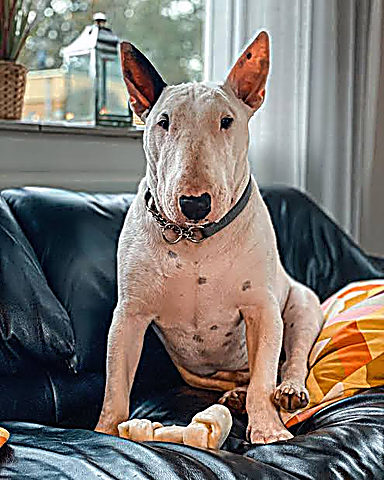
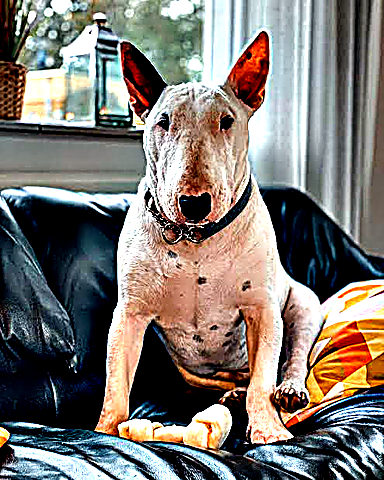
refactor(sharpen)!: fold clarity into sharpen
Local contrast is an unsharp mask with a wide radius: sharpen gains the preset clarity
(radius 30, amount 1) and edge 'constant' with constant_value, as clarity had. Every caller
moves to sharpen; the clarity slice and CLAUDE.md's worked example are updated.

Measured max abs diff vs clarity before the change: 0.0 over 37 renders (11 parameter sets,
3 sharpen sets, 23 caller recipes at their own size).

diff --git a/tests/effects/sharpen/test_sharpen.py b/tests/effects/sharpen/test_sharpen.py
@@ -2,10 +2,15 @@
 
 import numpy as np
 import pytest
+from scipy import ndimage
 
 from bullterrier_image.core import registry
+from bullterrier_image.core.steps import Step
 
 NAME = "sharpen"
+# A blur reaching 32 px or more is an FFT convolution within 1e-5 of scipy's filter (the promise of `gaussian_blur`);
+# the result is 2 x picture - blur, so the blur's error counts once; 2e-5 adds float32 headroom to that promise.
+WIDE_BLUR_VS_SCIPY = 2e-5
 
 
 def kernel_1d(sigma: float, truncate: float = 4.0) -> np.ndarray:
@@ -139,3 +144,29 @@ def test_a_strong_sharpen_overshoots_and_is_cut_off_at_black_and_white(right: fl
     out = registry.apply(NAME, side, amount=5.0, radius=2.0, threshold=0.0)
     assert out.min() == 0.0
     assert out.max() == 1.0
+
+
+@pytest.mark.parametrize("beyond", [0.0, 0.2, 0.5], ids=["black beyond", "dark grey beyond", "same grey beyond"])
+def test_a_constant_edge_blurs_in_the_given_brightness_beyond_the_picture(beyond: float) -> None:
+    """Mid-way down the left edge of a tall grey picture only the row direction sees past the edge: the blur there is
+    grey - (grey - beyond) x (the Gaussian weights at offsets left of the pixel), worked out from the weights."""
+    grey = np.full((61, 21, 3), 0.5, np.float32)
+    out = registry.apply(NAME, grey, radius=1.5, amount=1.0, threshold=0.0, edge="constant", constant_value=beyond)
+    blurred = 0.5 - (0.5 - beyond) * SIGMA_1_5[:CENTRE].sum()
+    assert out[30, 0, 0] == pytest.approx(0.5 + (0.5 - blurred), abs=2e-6)
+    np.testing.assert_allclose(out[10:51, 10], 0.5, atol=1e-6)  # the kernel reaches no edge from the middle
+
+
+def test_the_clarity_preset_is_local_contrast_against_a_wide_blur() -> None:
+    """Checked against scipy's Gaussian filter: picture + (picture - its 30 px blur), kept within 0..1."""
+    picture = np.random.default_rng(5).random((70, 90, 3), dtype=np.float32)
+    blurred = ndimage.gaussian_filter(picture, (30, 30, 0), mode="reflect")
+    expected = np.clip(2 * picture - blurred, 0, 1)
+    out = registry.apply(NAME, picture, **Step(NAME, preset="clarity").params)
+    np.testing.assert_allclose(out, expected, atol=WIDE_BLUR_VS_SCIPY)
+
+
+def test_a_parameter_given_beside_the_clarity_preset_wins() -> None:
+    picture = np.random.default_rng(6).random((40, 50, 3), dtype=np.float32)
+    off = Step(NAME, {"amount": 0.0}, preset="clarity").params
+    np.testing.assert_array_equal(registry.apply(NAME, picture, **off), picture)

diff --git a/src/bullterrier_image/effects/sharpen/effect.py b/src/bullterrier_image/effects/sharpen/effect.py
@@ -46,10 +46,19 @@ class SharpenParams(EffectParams):
         "exact and slower.",
         advanced=True,
     )
-    edge: Literal["reflect", "nearest", "mirror", "wrap"] = param(
+    edge: Literal["reflect", "constant", "nearest", "mirror", "wrap"] = param(
         "reflect",
         doc="What the blur sees beyond the picture's edge: 'reflect' (mirrored, edge pixel repeated), 'mirror' "
-        "(mirrored about the edge pixel), 'nearest' (the edge pixel repeated), 'wrap' (the opposite edge).",
+        "(mirrored about the edge pixel), 'nearest' (the edge pixel repeated), 'wrap' (the opposite edge), "
+        "'constant' (constant_value, so the border stands out from it).",
+        advanced=True,
+    )
+    constant_value: float = param(
+        0.0,
+        unit="fraction",
+        min=0,
+        max=1,
+        doc="The brightness (0..1) assumed beyond the edge when edge is 'constant'; ignored otherwise.",
         advanced=True,
     )
 
@@ -59,9 +68,14 @@ def sharpen(rgb: np.ndarray, params: SharpenParams) -> np.ndarray:
     """Sharpen with an unsharp mask: add `amount` times the detail that a `radius` px Gaussian blur removes.
 
     Detail smaller than `threshold` is left as it is; each colour channel is sharpened on its own, and the result is
-    kept within 0..1.
+    kept within 0..1. A small `radius` brings out fine texture; a large one (preset `clarity`: 30 px) is local
+    contrast, which exaggerates how each area differs from its surroundings so features stand out even when the
+    whole face sits in a narrow band of brightness. Put that before effects that turn tone into marks (ascii,
+    halftone), which are blind to small tonal differences.
     """
-    blurred = gaussian_blur(rgb, params.radius, truncate=params.truncate, edge=params.edge)
+    blurred = gaussian_blur(
+        rgb, params.radius, truncate=params.truncate, edge=params.edge, constant_value=params.constant_value
+    )
     detail = rgb - blurred
     detail *= np.abs(detail) >= params.threshold  # smaller differences count for nothing
     return np.clip(rgb + params.amount * detail, 0.0, 1.0).astype(np.float32)

diff --git a/tests/core/test_runner.py b/tests/core/test_runner.py
@@ -1370,7 +1370,7 @@ def test_a_size_that_is_not_a_whole_number_of_pixels_is_refused_naming_it(photo,
     [
         pytest.param(Step("gaussian_blur", {"radius": 6.0}), id="a blur"),
         pytest.param(Step("bloom", {"radius": 24.0}), id="a bloom"),
-        pytest.param(Step("clarity", {"radius": 30.0}), id="a local contrast"),
+        pytest.param(Step("sharpen", {"radius": 30.0}), id="a local contrast"),
         pytest.param(Step("drop_shadow", {"dx": 12.0, "dy": 18.0, "blur": 24.0}), id="a shadow offset and blurred"),
         pytest.param(Step("pixel_grid", {"cell": 4}), id="a grid of whole pixels"),
     ],

diff --git a/tests/effects/test_no_hidden_tunables.py b/tests/effects/test_no_hidden_tunables.py
@@ -263,7 +263,7 @@ def _findings(path: Path) -> list[str]:
 
 def test_the_scan_covers_the_effect_packages_and_the_ops_modules():
     names = {_module_name(path) for path in SCANNED}
-    assert {"effects/grade/effect.py", "effects/clarity/effect.py", "ops/color.py", "ops/cells.py"} <= names
+    assert {"effects/grade/effect.py", "effects/sharpen/effect.py", "ops/color.py", "ops/cells.py"} <= names
 
 
 @pytest.mark.parametrize("path", SCANNED, ids=[_module_name(path) for path in SCANNED])

diff --git a/examples/python_api.py b/examples/python_api.py
@@ -20,7 +20,7 @@ TOXIC_NEON = Recipe(
     "toxic-neon",
     size=1024,
     steps=[
-        fx.clarity(radius=40, amount=0.6),
+        fx.sharpen(radius=40, amount=0.6),
         fx.gradient_map(stops=["#021a0b", "#00ff88", "#d8ffe8"]),
         fx.fill("#000000", mask="background"),  # only the background; the subject is found automatically
         fx.glitch(split=8, bands=6, seed=3),

diff --git a/tests/test_layering.py b/tests/test_layering.py
@@ -89,7 +89,7 @@ FORBIDDEN = {
     ),
     "effect folder to effect folder": (
         "effects/grade/effect.py",
-        "import bullterrier_image.effects.clarity.effect",
+        "import bullterrier_image.effects.sharpen.effect",
         "bullterrier_image.effects.grade.effect",
         EFFECTS_APART,
     ),

diff --git a/docs/effects-roadmap.md b/docs/effects-roadmap.md
@@ -50,8 +50,7 @@ it becomes a new effect only when it is a new idea. Planned merges of today's ef
 
 | Effect | What it does | Example |
 | --- | --- | --- |
-| `clarity` ✓ | Local contrast. | `fx.clarity(radius=40)` |
-| `sharpen` ✓ | Unsharp mask. | `fx.sharpen(radius=2, amount=0.8)` |
+| `sharpen` ✓ | Unsharp mask; preset `clarity` is local contrast. | `fx.sharpen(radius=2, amount=0.8)` |
 | `highpass` ✓ | Keep only fine detail (for blending). | `fx.highpass(radius=8)` |
 | `denoise` (deferred) | Median, bilateral or non-local-means (the default method fits the render budget; a slower one may be chosen). | `fx.denoise(method="bilateral", amount=0.4)` |
 | `lens_blur` aperture (planned) | `blades` on `lens_blur`: hexagonal or cat's-eye bokeh; 0 = a disc. | `fx.lens_blur(radius=12, highlights=4, blades=6)` |
@@ -211,7 +210,7 @@ of the picture, so a look does not depend on the resolution. `Framing.documentat
 Any number an effect marks `(drivable)` can vary across the picture by a field (`docs/design-decisions.md`, "A field
 varies a parameter"): `radius = { by = "far", start = 0, end = 12 }` on a `gaussian_blur` step. Drivable today: the
 radius of `gaussian_blur`, `bloom`; `motion_blur`'s `length`; the amounts of `bloom`,
-`grain`, `clarity`, `sharpen`, `chromatic_aberration`, `displace`, `vignette`;
+`grain`, `sharpen`, `chromatic_aberration`, `displace`, `vignette`;
 `grade`'s `exposure`, `contrast`, `saturation`, `vibrance`; `levels`' `output_black`; `white_balance`'s `temperature` and `tint`;
 `hue_shift`'s `hue`; `fog`'s `density`. More follow when a look needs them; the rule is that the result changes smoothly with the number.
 
@@ -225,7 +224,7 @@ treats the ground under the subject's feet like the subject, and falloff follows
 
 | Effect | What it does | Example |
 | --- | --- | --- |
-| `depth_haze` ✓ (a recipe, [depth-haze.toml](../examples/recipes/depth-haze.toml)) | Aerial perspective: `fill` toward a pale haze and a flatter `grade`, masked to a `band` of the far part of the depth; `clarity` on the near. | `fill` with `mask` = a `band` of `depth` region |
+| `depth_haze` ✓ (a recipe, [depth-haze.toml](../examples/recipes/depth-haze.toml)) | Aerial perspective: `fill` toward a pale haze and a flatter `grade`, masked to a `band` of the far part of the depth; `sharpen` (preset `clarity`) on the near. | `fill` with `mask` = a `band` of `depth` region |
 | `depth_grade` ✓ (a recipe, [depth-grade.toml](../examples/recipes/depth-grade.toml)) | A grade per distance: `white_balance`, `split_tone` and `grade` looks over `bands` of `depth` pieces (`each` + `looks`). | `each` over a `bands` region of `depth` |
 | `relight` ✓ | Light the depth, read as a relief, from a direction (Lambert on normals of the smoothed depth); flat areas are unchanged. | `fx.relight(angle=270, elevation=35, height=250)` |
 | coloured point light (planned, on `relight`) | `color` and a light at `x`, `y` as well as a direction: a neon light moving over the subject as video sets `x`, `y`. | `fx.relight(color="#ff2bd6", x=0.8, y=0.3)` |
@@ -354,7 +353,6 @@ band), resolved like a `Drive`'s `by`; only named fields are built. This merges 
 | --- | --- |
 | `fade` | `levels(output_black)` |
 | `invert` | a `levels` preset |
-| `clarity` | a `sharpen` preset |
 | `noise`, `film_grain` | `grain` (`shadows`, `highlights`, `color`, `distribution`) |
 | `black_and_white` | a `channel_mixer` preset |
 | `vibrance` | `grade` + `vibrance` |

diff --git a/docs/design-decisions.md b/docs/design-decisions.md
@@ -336,7 +336,7 @@ contributors are in [CLAUDE.md](../CLAUDE.md); what is planned is in the [effect
   below a kernel radius of 32 px, and from there an FFT convolution over the same edge extension, within 1e-5 of
   scipy (float32 rounding), whatever the sigma. Code that builds per-pixel geometry works a band of rows at a time.
   *Reason:* a radius at the top of its documented range must still render in seconds, and a direct convolution costs
-  in proportion to its kernel (clarity at 30 px spent 3 s per 12 MP photo in it). *Consequence:* a contract test holds
+  in proportion to its kernel (a 30 px sharpen spent 3 s per 12 MP photo in it). *Consequence:* a contract test holds
   every effect at its defaults on a 1 MP photo to 3 s of process CPU time (about ten times the slowest effect, so a
   shared CI runner, which is several times slower than a laptop, has room, while a ten-fold regression still fails;
   the effects themselves aim far lower) and 12 picture-sized buffers of memory (`tracemalloc`), with a known-bad effect

diff --git a/CLAUDE.md b/CLAUDE.md
@@ -151,7 +151,7 @@ hue, temperature, tint, angle, spacing, opacity, blend, octaves, persistence, la
 ## Adding an effect
 
 Developer tasks (`tools/dev.py` via `poe`), not part of `bt-image`. The template in `src/bullterrier_image/effects/_template/`
-defines the shape; `effects/grade/`, `effects/clarity/` are worked examples.
+defines the shape; `effects/grade/`, `effects/sharpen/` are worked examples.
 1. **Scaffold:** `uv run poe new-effect <name> --category <category>` writes the package (`__init__.py`, `effect.py` with one
    example field), `tests/effects/<name>/test_<name>.py` and `examples/effects/<name>.toml`. It passes the gate as written.
 2. **Fill in:** replace the example field with the effect's own and the body with the effect (docstring's first sentence is its

diff --git a/docs/recipes.md b/docs/recipes.md
@@ -216,7 +216,8 @@ each = "tones"                    # highlights, midtones, shadows
 looks = ["none", { effect = "grade", saturation = 0.7 }, { effect = "grade", saturation = 0.4, exposure = 0.3 }]
 
 [[step]]
-effect = "clarity"
+effect = "sharpen"
+preset = "clarity"
 mask = "front"                    # only what is near
 
 [[step]]
